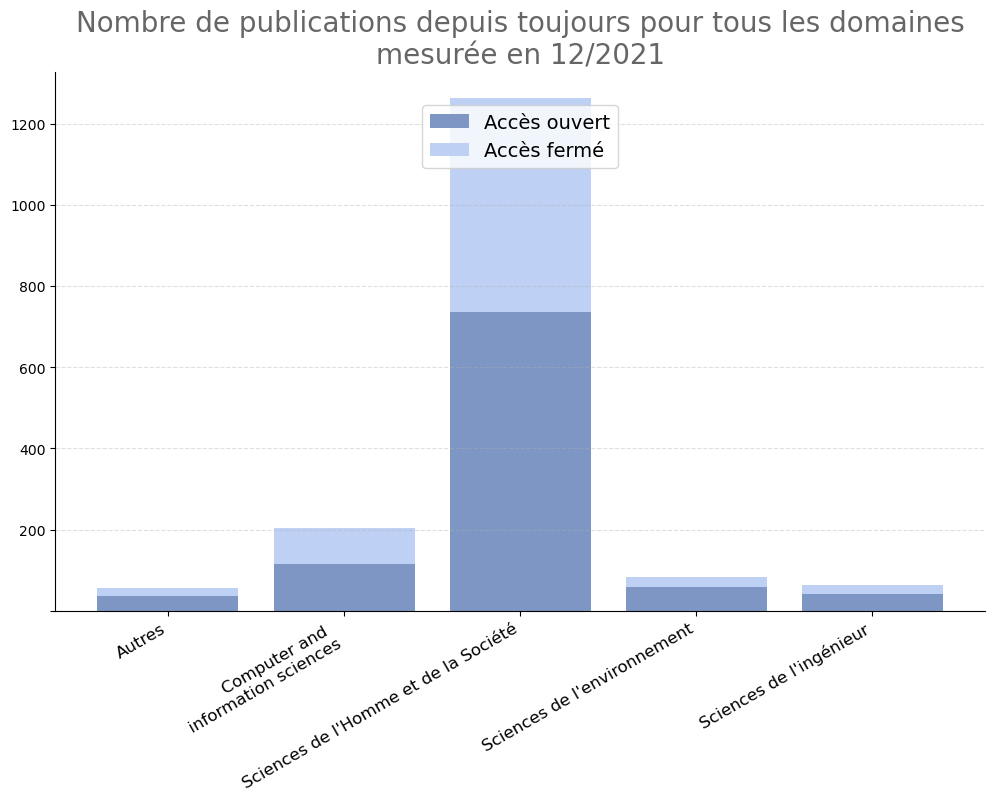
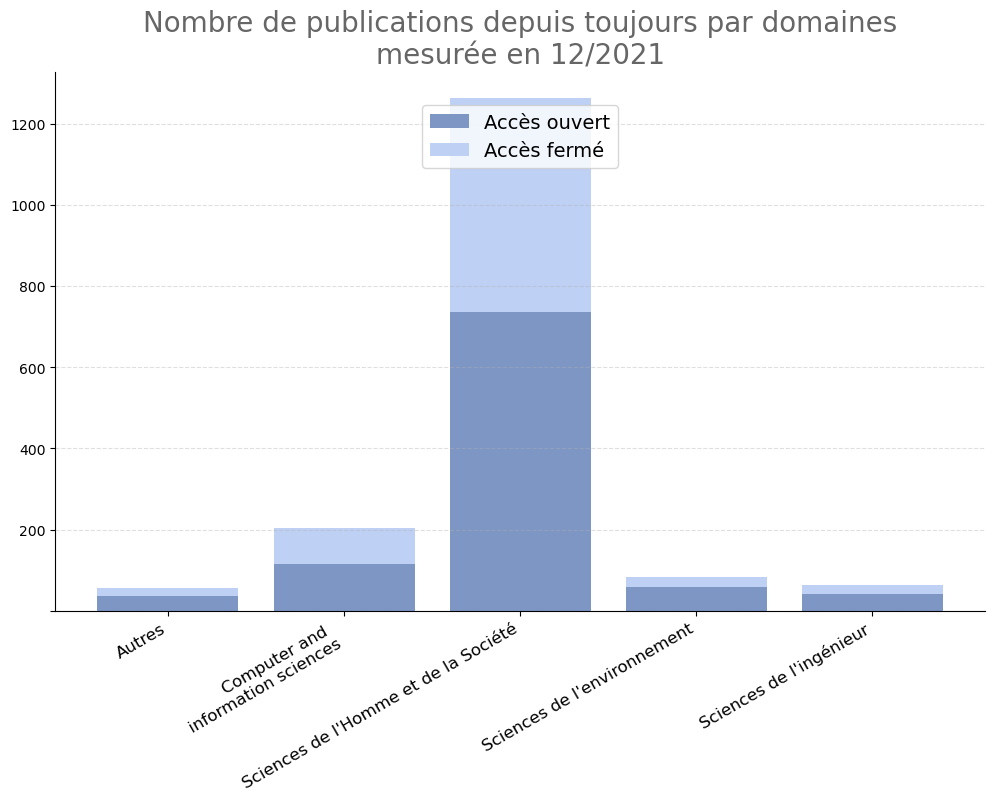
titres

Changed region(s): [[0.0623, 0.0, 0.9658, 0.0624]]

diff --git a/src/visualisation/graphique_rec_discipline.py b/src/visualisation/graphique_rec_discipline.py
@@ -11,15 +11,15 @@ def graphique_discipline(df, domain = False, domain_shs = False, domain_info = F
 
     if(domain == True):
         var = "scientific_field"
-        titre = "tous les domaines" # attention lorsqu'on change, pour le print 10 lignes plus loin et pour le titre de la figure
+        titre = "par domaines" # attention lorsqu'on change, pour le print 10 lignes plus loin et pour le titre de la figure
         name_file = "domaines"
     if(domain_shs == True):
         var = "shs_field"
-        titre = "le domaine shs"
+        titre = "par sous domaines shs"
         name_file = "sous_domaine_shs"
     if(domain_info == True):
         var = "info_field"
-        titre = "le domaine info"
+        titre = "par sous domaines info"
         name_file = "sous_domaine_info"
     
     print("graphique pour " + titre)
@@ -74,7 +74,7 @@ def graphique_discipline(df, domain = False, domain_shs = False, domain_info = F
     # plt.tight_layout()
     plt.legend(loc="upper center", fontsize=14, borderaxespad=1.7)
     plt.title(
-        "Nombre de publications depuis toujours pour " + titre +  "\nmesurée en " +
+        "Nombre de publications depuis toujours " + titre +  "\nmesurée en " +
         str(date.today().month) + "/" + str(date.today().year),
         fontsize=20,
         x=0.5,

diff --git a/main.py b/main.py
@@ -39,7 +39,7 @@ df_charge = aligner(
 
 annees = [i for i in range(2010, date.today().year + 1)]
 
-graphique(df_raw=df_charge, annee=2020, annees=annees, rec_base=True, rec_disciplines=True, rec_genre=True,
-          oa_circulaire=True, oa_discipline=True, oa_evolution=True, oa_editeur=False,
+graphique(df_raw=df_charge, annee=2020, annees=annees, rec_base=True, rec_disciplines=True, rec_genre=False,
+          oa_circulaire=False, oa_discipline=False, oa_evolution=False, oa_editeur=False,
           apc_evolution=False, apc_discipline=False, bibliodiversite=False,
           oa_type_evolution=False, domain=True, domain_shs=True, domain_info=True)

diff --git a/src/visualisation/graphique_oa_circulaire.py b/src/visualisation/graphique_oa_circulaire.py
@@ -71,7 +71,7 @@ def graphique_circulaire_oa(df, annee):
               borderaxespad=-1)
 
     # ax.legend(loc="", fontsize = 12)
-    plt.title("Proportion des publications en "+str(annee) + "\nmesurée en " + 
+    plt.title("Proportion des publications en accès ouverte en "+str(annee) + "\nmesurée en " + 
                 str(date.today().month) + "/" + str(date.today().year),
               fontsize=23, x=0.55, y=1.8, alpha=0.6)
     # plt.show()

diff --git a/src/visualisation/graphique_oa_discipline.py b/src/visualisation/graphique_oa_discipline.py
@@ -126,7 +126,7 @@ def graphique_discipline_oa(df, annee):
                framealpha=False)
 
     plt.title(
-        "Taux d'accès ouvert des publications en "+str(annee) + "\nmesuré en " +
+        "Taux d'accès ouvert des publications en " +str(annee) + " par domaines" + "\nmesuré en " +
         str(date.today().month) + "/" + str(date.today().year), 
         fontsize=25,
         x=0.49,
